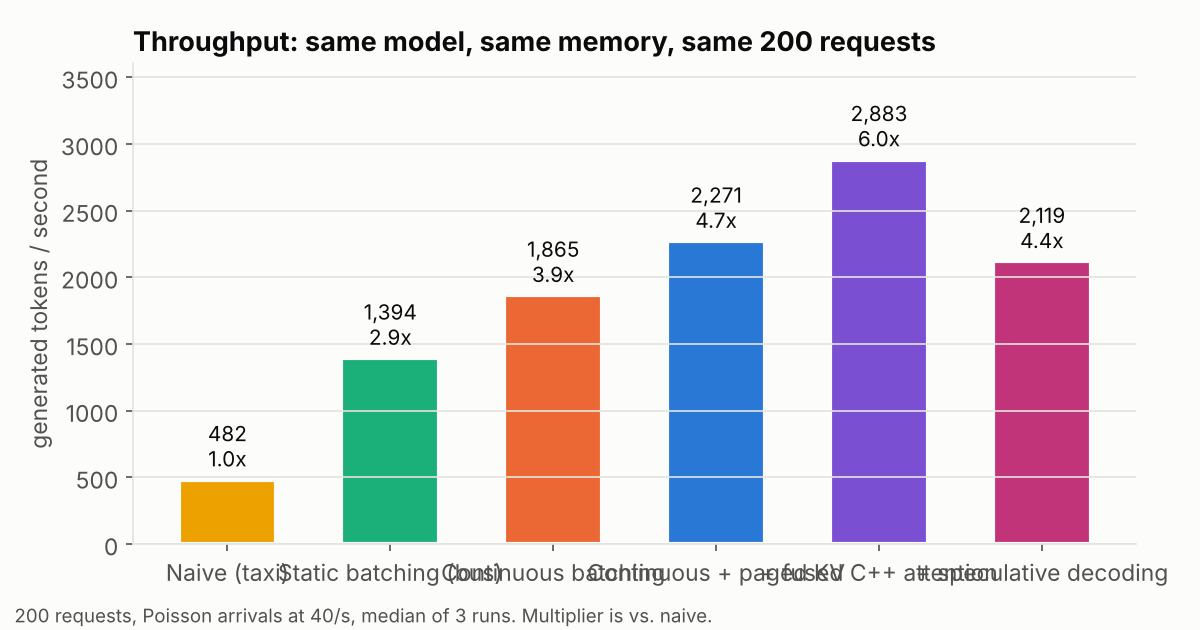
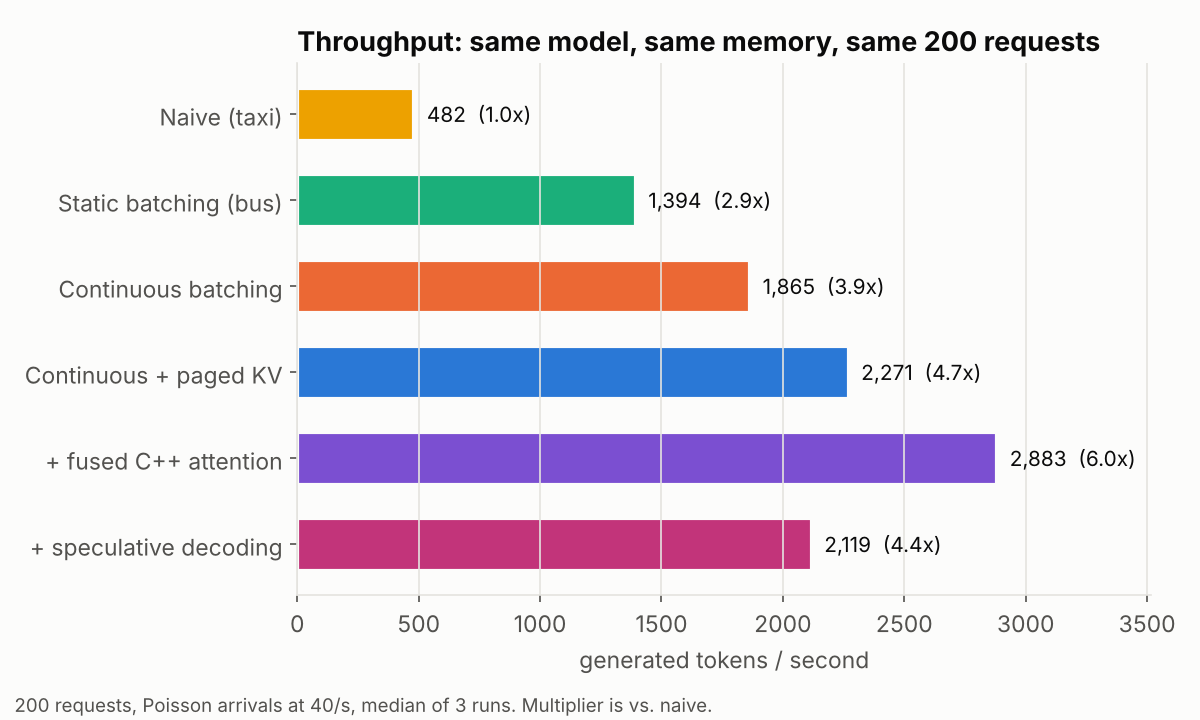
bench: horizontal throughput chart so six labels fit

diff --git a/bench/plot.py b/bench/plot.py
@@ -84,32 +84,33 @@ def plot_throughput(data: dict[str, Any], out: Path) -> None:
     tput = [res[n]["summary"]["throughput_tok_s"] for n in names]
     base = res["naive"]["summary"]["throughput_tok_s"] if "naive" in res else None
 
-    fig, ax = plt.subplots(figsize=(8, 4.2))
-    bars = ax.bar(
+    fig, ax = plt.subplots(figsize=(8, 0.6 * len(names) + 1.2))
+    bars = ax.barh(
         [LABELS[n] for n in names],
         tput,
         color=[COLORS[n] for n in names],
-        width=0.6,
+        height=0.62,
         edgecolor=SURFACE,
         linewidth=2,
     )
+    ax.invert_yaxis()
     for bar, value in zip(bars, tput, strict=True):
         label = f"{value:,.0f}"
         if base:
-            label += f"\n{value / base:.1f}x"
+            label += f"  ({value / base:.1f}x)"
         ax.annotate(
             label,
-            (bar.get_x() + bar.get_width() / 2, bar.get_height()),
-            xytext=(0, 4),
+            (bar.get_width(), bar.get_y() + bar.get_height() / 2),
+            xytext=(6, 0),
             textcoords="offset points",
-            ha="center",
-            va="bottom",
+            ha="left",
+            va="center",
             fontsize=10,
             color=INK,
         )
-    ax.set_ylabel("generated tokens / second")
-    ax.set_ylim(0, max(tput) * 1.25)
-    ax.grid(axis="x", visible=False)
+    ax.set_xlabel("generated tokens / second")
+    ax.set_xlim(0, max(tput) * 1.22)
+    ax.grid(axis="y", visible=False)
     ax.set_title("Throughput: same model, same memory, same 200 requests")
     w = data["workload"]
     subtitle(
